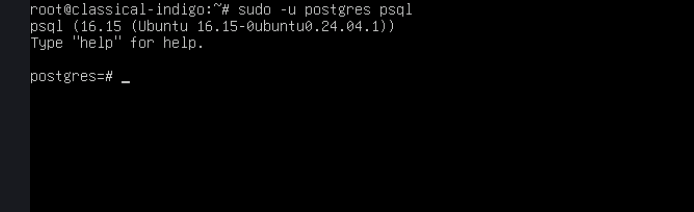
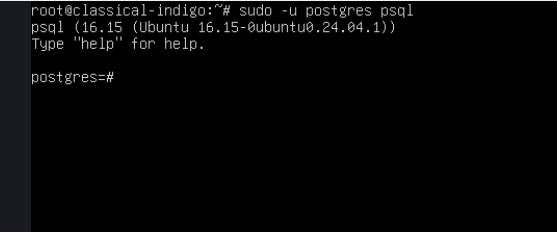
Lesson4

Changed region(s): [[0.0, 0.0, 1.0, 1.0]]

diff --git a/report.md b/report.md
@@ -1,105 +1,90 @@
-# Домашнее задание 3: Логический уровень PostgreSQL
+# Домашнее задание 4: Pgbench и базовый тюнинг
 
 ## Цель
-иметь представление о логическом устройстве PostgreSQL;
-рассмотреть работу утилиты psql;
-понять, как PostgreSQL работает с данными на логическом уровне.
+Повысить производительность PostgreSQL на тестовом стенде для быстрой оценки эффекта тюнинга конфигурации под нагрузкой.
 
 ## Ход выполнения
 
-### Шаг 1: Создание базы, схемы и таблицы
-Создана база `testdb`, схема `testnm` и таблица `t1` (в схеме `testnm`). Добавлена одна строка.
-*Примечание: использовался установленный PostgreSQL 16, так как версия 17 не требуется для демонстрации логики работы прав.*
+## Условия теста
+- **База данных:** `pgbench_db`
+- **Масштаб (scale):** 10
+- **Длительность:** 60 секунд
+- **Клиенты:** 10
+- **Потоки:** 4
+- **Версия PostgreSQL:** 16
+- **ОЗУ сервера:** 2 ГБ
+
+## Ход выполнения
+
+
+### 1. Инициализация тестовой базы
+Создана база `pgbench_db` и заполнена тестовыми данными с помощью `pgbench -i -s 10`.
 
 ```bash
 sudo -u postgres psql
+CREATE DATABASE pgbench_db;
+\q
+sudo -u postgres pgbench -i -s 10 pgbench_db
 ```
 
 ![Скриншот sudo -u postgres psql](images/sudo-u-postgres-psql.png)
 
-```sql
-CREATE DATABASE testdb;
-\c testdb
-CREATE SCHEMA testnm;
-CREATE TABLE testnm.t1 (c1 INT);
-INSERT INTO testnm.t1 VALUES (1);
+![Скриншот CREATE DATABASE pgbench_db](images/CREATE-DATABASE-pgbench_db.png)
+
+![Скриншот sudo -u postgres pgbench -i -s 10 pgbench_db](images/sudo-u-postgres-pgbench-i-s10pgbench_db.png)
+
+
+### 2. Baseline-прогон (до тюнинга)
+Выполнен замер производительности с настройками по умолчанию.
+
+```bash
+sudo -u postgres pgbench -c 10 -j 4 -T 60 pgbench_db
 ```
 
-![Скриншот CREATE DATABASE testdb](images/Create-DataBase-testdb.png)
-
-![Скриншот \c testdb](images/c-testdb.png)
-
-![Скриншот CREATE TABLE testnm.t1](images/Create-Table-Schema.png)
+![Скриншот sudo -u postgres pgbench -c 10 -j 4 -T 60 pgbench_db](images/sudo-u-postgres-pgbench-c-10-j-4-T-60-pgbench_db.png)
 
 
-### 2. Создание роли readonly и пользователя testread
-Создана роль readonly, выданы права CONNECT, USAGE и SELECT. Создан пользователь testread и ему назначена роль.
+Результат baseline: TPS = 2375.579584 (without initial connection time).
 
-```sql
-CREATE ROLE readonly;
-GRANT CONNECT ON DATABASE testdb TO readonly;
-GRANT USAGE ON SCHEMA testnm TO readonly;
-GRANT SELECT ON ALL TABLES IN SCHEMA testnm TO readonly;
-CREATE USER testread WITH PASSWORD 'test123';
-GRANT readonly TO testread;
+### 3. Изменение параметров конфигурации
+В файле /etc/postgresql/16/main/postgresql.conf изменены следующие параметры:
+
+Параметр	            Было	Стало	Обоснование
+shared_buffers	        128MB	512MB	Увеличен кэш данных в памяти. Для 2 ГБ ОЗУ значение 512 МБ (25%) является безопасным и эффективным.
+work_mem	            4MB	    16MB	Увеличен объём памяти для операций сортировки и хеширования, которые активно используются в тесте TPC-B.
+effective_cache_size	4GB	    1GB	    Скорректирована оценка кэша ОС в соответствии с реальным объёмом памяти сервера (2 ГБ).
+
+После изменений кластер перезапущен командой sudo pg_ctlcluster 16 main restart.
+
+![Скриншот sudo nano /etc/postgresql/16/main/postgresql.conf](images/sudo-nano-etc-postgresql-16-main-postgresql-conf.png)
+
+![Скриншот postgresql.conf](images/postgresql-conf-1.png)
+
+![Скриншот postgresql.conf.png](images/postgresql-conf-2.png)
+
+![Скриншот postgresql.conf.png](images/postgresql-conf-3.png)
+
+![Скриншот Restart](images/Restart.png)
+
+### 4. Повторный прогон (после тюнинга)
+Выполнен замер с теми же настройками, что и baseline.
+
+```bash
+sudo -u postgres pgbench -c 10 -j 4 -T 60 pgbench_db
 ```
 
-![Скриншот Create Role and User](images/Create-Role-and-User.png)
+![Скриншот sudo -u postgres pgbench -c 10 -j 4 -T 60 pgbench_db](images/sudo-u-postgres-pgbench-c-10-j-4-T-60-pgbench_db-2.png)
 
 
-### 3. Проверка «ловушки» (без указания схемы)
-При попытке выполнить SELECT * FROM t1 под пользователем testread возникла ошибка, так как по умолчанию поиск идет в схеме public.
-
-```sql
-psql -h localhost -U testread -d testdb
-SELECT * FROM t1;
-```
-
-![Скриншот Connect New User](images/ConnectNewUser.png)
-
-![Скриншот Select Error](images/SelectError.png)
-
-При этом запрос с явным указанием схемы работает:
-
-```sql
-SELECT * FROM testnm.t1;
-```
-
-![Скриншот Select No Error](images/SelectNoError.png)
+Результат после тюнинга: TPS = 2561.347071 (without initial connection time).
 
 
-### 4. Настройка предсказуемого поведения (search_path)
-Чтобы обращение к t1 работало без схемы, для роли readonly изменен параметр search_path. Теперь поиск идет сначала в схеме testnm, а потом в public.
 
-```sql
-ALTER ROLE readonly SET search_path = testnm, public;
-```
+Результат после тюнинга: TPS = 2561.347071 (without initial connection time).
 
-![Скриншот search-path](images/search-path.png)
+Сравнение и вывод
+Этап	            TPS	                  Прирост
+Baseline (до)	    2375.579584	            —
+После тюнинга	    2561.347071	            +7.8%
 
-
-### 5. Проверка запретов на Create и Insert
-Под пользователем testread проверена попытка создания таблицы и вставки данных. Обе операции запрещены из-за отсутствия прав.
-
-```sql
-CREATE TABLE testread_table (id INT);
-INSERT INTO testnm.t1 VALUES (2);
-```
-
-![Скриншот search-path](images/CreateReadOnly.png)
-
-После переподключения и применения search_path проверено, что чтение работает без указания схемы:
-
-```sql
-SELECT * FROM t1;
-```
-
-![Скриншот final](images/final.png)
-
-
-## Решенные проблемы (Troubleshooting)
-Ошибка relation "t1" does not exist: Возникла из-за того, что по умолчанию search_path не включает схему testnm. Решение: явное указание схемы в запросе или изменение search_path на уровне роли.
-
-Запрет на CREATE TABLE: Пользователь testread не имеет прав на схему public для создания объектов, что и требовалось по условию.
-
-Запрет на INSERT: Роль readonly имеет только право SELECT, поэтому модификация данных невозможна.
+Вывод: Изменение параметров shared_buffers и work_mem позволило увеличить количество транзакций в секунду на 7.8%. Основной вклад внёс рост shared_buffers, так как увеличил долю данных, обрабатываемых в оперативной памяти, снизив нагрузку на диск. Параметр work_mem также сыграл роль, ускорив сортировки в запросах. Для сервера с 2 ГБ ОЗУ дальнейшее увеличение shared_buffers свыше 512 МБ нецелесообразно из-за риска нехватки памяти для самой ОС и других процессов.
